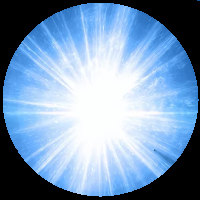
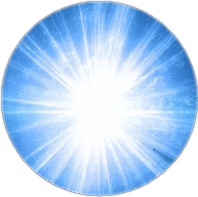
Добавил фото звёзд и звёздное небо.

diff --git a/StarTravel/StarTravel/Game.cs b/StarTravel/StarTravel/Game.cs
@@ -19,6 +19,7 @@ namespace StarTravel
         public static Point startPoint;
         public static BaseObject[] baseObjs;
         public static Image[] imageList;
+        public static Image backGround;
 
         public static void Load()
         {
@@ -52,13 +53,13 @@ namespace StarTravel
                 }
                 if (Math.Abs(x) <= Math.Abs(y)) { x = x / Math.Abs(x); }
                 else { y = y / Math.Abs(y); }
-                if (i < imageList.Length)
+                if (i <= 2)
                 {
                     baseObjs[i] = new Star(startPoint, new Point(x, y), new Size(1, 1), rand.Next(0, 3), rand.Next(10) * 10, imageList[i]);
                 }
                 else
                 {
-                    baseObjs[i] = new BaseObject(startPoint, new Point(x, y), new Size(1, 1), rand.Next(11), rand.Next(10) * 10);
+                    baseObjs[i] = new Star(startPoint, new Point(x, y), new Size(1, 1), rand.Next(7, 11), rand.Next(10) * 10, imageList[rand.Next(3, 7)]);
                 }
                 
 
@@ -89,10 +90,16 @@ namespace StarTravel
             // Связываем буфер в памяти с графическим объектом, чтобы рисовать в буфере
             Buffer = _context.Allocate(g, new Rectangle(0, 0, Width, Height));
 
-            imageList = new Image[3];
+            imageList = new Image[7];
             imageList[0] = Image.FromFile(@"..\..\Звезда1.png");
             imageList[1] = Image.FromFile(@"..\..\Звезда2.png");
             imageList[2] = Image.FromFile(@"..\..\Звезда3.png");
+            imageList[3] = Image.FromFile(@"..\..\Звезда_м1.png");
+            imageList[4] = Image.FromFile(@"..\..\Звезда_м2.png");
+            imageList[5] = Image.FromFile(@"..\..\Звезда_м3.png");
+            imageList[6] = Image.FromFile(@"..\..\Звезда_м4.png");
+            backGround = Image.FromFile(@"..\..\Звёздное небо.png");
+            
             Load();
 
             Timer timer = new Timer { Interval = 10 };
@@ -109,6 +116,7 @@ namespace StarTravel
             //Buffer.Render();
 
             Buffer.Graphics.Clear(Color.Black);
+            Buffer.Graphics.DrawImage(backGround, new Rectangle(0, 0, Width, Height));
             foreach (BaseObject obj in baseObjs)
                 obj.Draw();
             Buffer.Render();

diff --git a/StarTravel/StarTravel/Program.cs b/StarTravel/StarTravel/Program.cs
@@ -12,7 +12,7 @@ namespace StarTravel
         static void Main(string[] args)
         {
             Form form = new Form();
-            form.Width = 800;
+            form.Width = 1000;
             form.Height = 600;
             Game.Init(form);
             form.Show();
